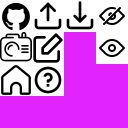
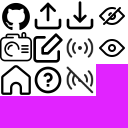
wip

Changed region(s): [[0.5, 0.25, 0.75, 0.75]]

diff --git a/src/lib/Draw.svelte b/src/lib/Draw.svelte
@@ -54,6 +54,10 @@
 
 <div class="rightButtons">
     {#key $store}
+    <div class="rightButton" class:hidden={!$store.currentTimeline.showAll} on:click={toggleShowHide} title="Share & save your chart online"><i class='online'></i></div>
+    <div class="rightButton" class:hidden={$store.currentTimeline.showAll} on:click={toggleShowHide} title="Remove & save your chart online"><i class='offline'></i></div>
+
+    
     <div class="rightButton" class:hidden={!$store.currentTimeline.showAll} on:click={toggleShowHide} title="Show regular tasks"><i class='hide'></i></div>
     <div class="rightButton" class:hidden={$store.currentTimeline.showAll} on:click={toggleShowHide} title="Show all tasks even if they're hidden"><i class='show'></i></div>
     {/key}
@@ -177,4 +181,6 @@ i{
 .download{background-position: -64px 0;}
 .show{background-position: -96px -32px;}
 .hide{background-position: -96px 0;}
+.online{background-position: -64px -32px;}
+.offline{background-position: -64px -64px;}
 </style> 

diff --git a/netlify/timelineDelete.ts b/netlify/timelineDelete.ts
@@ -82,7 +82,7 @@ async function remove2(q, client, timelineKey: string, ownerKey: string, writeKe
         
     ).then((ret) => {
         return {
-            statusCode: 200,
+            statusCode: 202,
             body: JSON.stringify({ message: ret }, null, 2),
         }
     })

diff --git a/netlify/timelineCreate.ts b/netlify/timelineCreate.ts
@@ -39,7 +39,7 @@ export async function create(q, client, event, context) {
         }
     }
 
-    let fieldName 
+    let fieldName: string = null 
     //Sanitize object
     for (let index in validStringProperties) {
         fieldName = validStringProperties[index]
